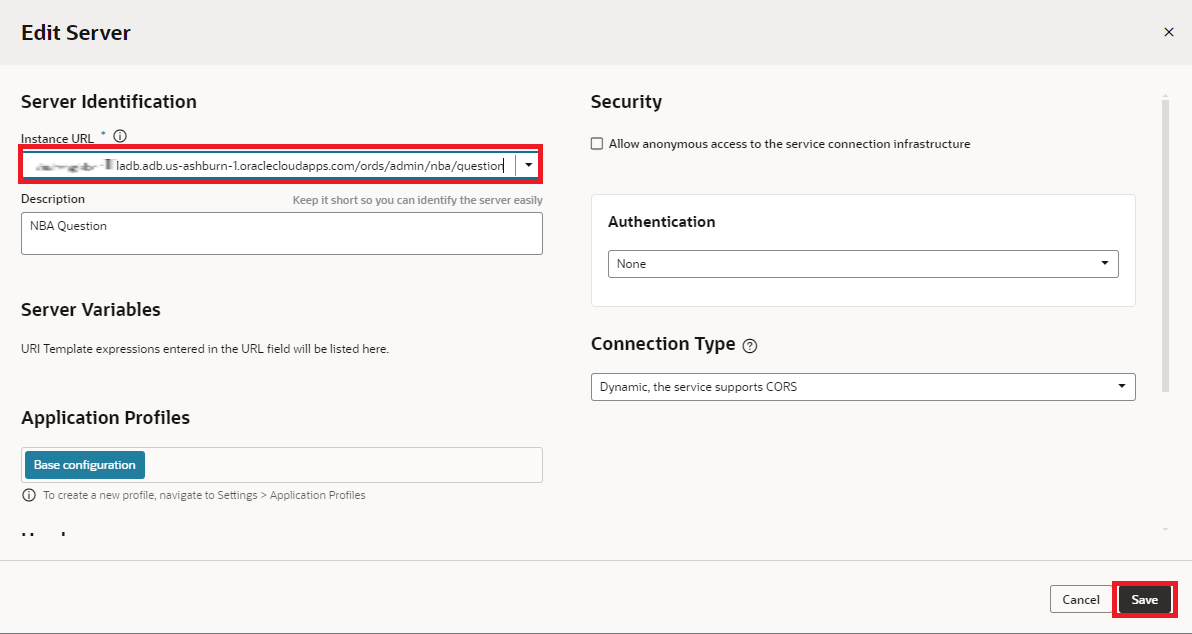
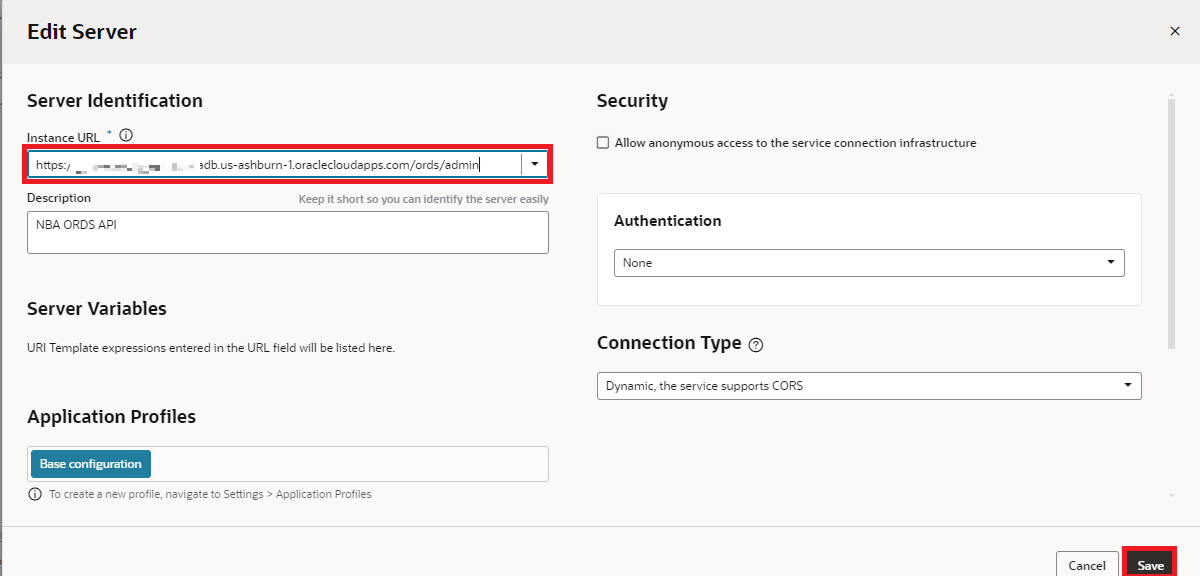
update labs 5 & 6

diff --git a/nba-genai-analytics-dashboard/5-connect-data-from-database/connect-data-from-database.md b/nba-genai-analytics-dashboard/5-connect-data-from-database/connect-data-from-database.md
@@ -20,9 +20,13 @@ Estimated time - 20 minutes
 
   ![navigate to the sql worksheet](images/adb-sql.png)
 
-2. Ensure that your data is loaded in the menu.
+2. Right click **NBA_GAME_SUMMARY** and enable **REST** by selecting **Enable**. Select **Enable** on the popup dialogue. 
 
-3. Enable the use of the resource principal by the Admin user. Copy and paste the following code into your SQL Worksheet, and then click the **Run Script** icon.
+  ![navigate to the AutoREST](images/enable-rest.png)
+
+  ![Enable REST Dialogue](images/copy-autorest.png)
+
+1. Enable the use of the resource principal by the Admin user. Copy and paste the following code into your SQL Worksheet, and then click the **Run Script** icon.
 
     ```
     <copy>
@@ -411,14 +415,17 @@ Estimated time - 20 minutes
 
   ![Navigate to Modules](./images/nba-module.png "")
 
+10. Notice each endpoint has a similar root URL. Copy one of them and erase the endpoint up to **`admin`**. This will be used as the root endpoint for the next task, where the endpoints are predifed in the app, accordingly. 
+    
+  ![Navigate to Modules](./images/copy-endpoint.png "")
+
 ## Task 2: Connect the Endpoints
 
 1. Navigate back to the Visual Builder App and select the icon on the left that resembles a **circle** (represents services). Click the **Backends** option and then, **nba2**. Click **Servers** and then edit for **NBA Question**
 
   ![Navigate to Modules](./images/update-endpoint-question.png "")
 
-3.
-
+2. Paste the **URL from the previous task** in the **`Instance URL`** and click **Save**.
 
   ![Navigate to Modules](./images/save-endpoint-question.png "")
 

diff --git a/nba-genai-analytics-dashboard/6-use-app-with-genai/use-app-with-genai.md b/nba-genai-analytics-dashboard/6-use-app-with-genai/use-app-with-genai.md
@@ -2,16 +2,21 @@
 
 ## Introduction
 
+This lab 
+
 Estimated time - 20 minutes
 
 
 ### Objectives
 
-* 
+* Test the Application
+* Deploy the application
 
-## Task 1: 
+## Task 1: Test the Application
 
-1. 
+1. Test the endpoints in the app by navigating to the service connections. Select **`question`**, then **`Endpoints`**, and select ther
+
+  ![Navigate to test question endpoint](./images/test-question.png "")
 
 ## Task 2: 
 

diff --git a/nba-genai-analytics-dashboard/1-introduction/introduction.md b/nba-genai-analytics-dashboard/1-introduction/introduction.md
@@ -48,7 +48,7 @@ You may now **proceed to the next lab**.
 * [Overview of Generative AI Service](https://docs.oracle.com/en-us/iaas/Content/generative-ai/overview.htm)
 
 
-## **Acknowledgements**
+## Acknowledgements
 
 * **Authors:**
 	* Nicholas Cusato - Cloud Engineer
